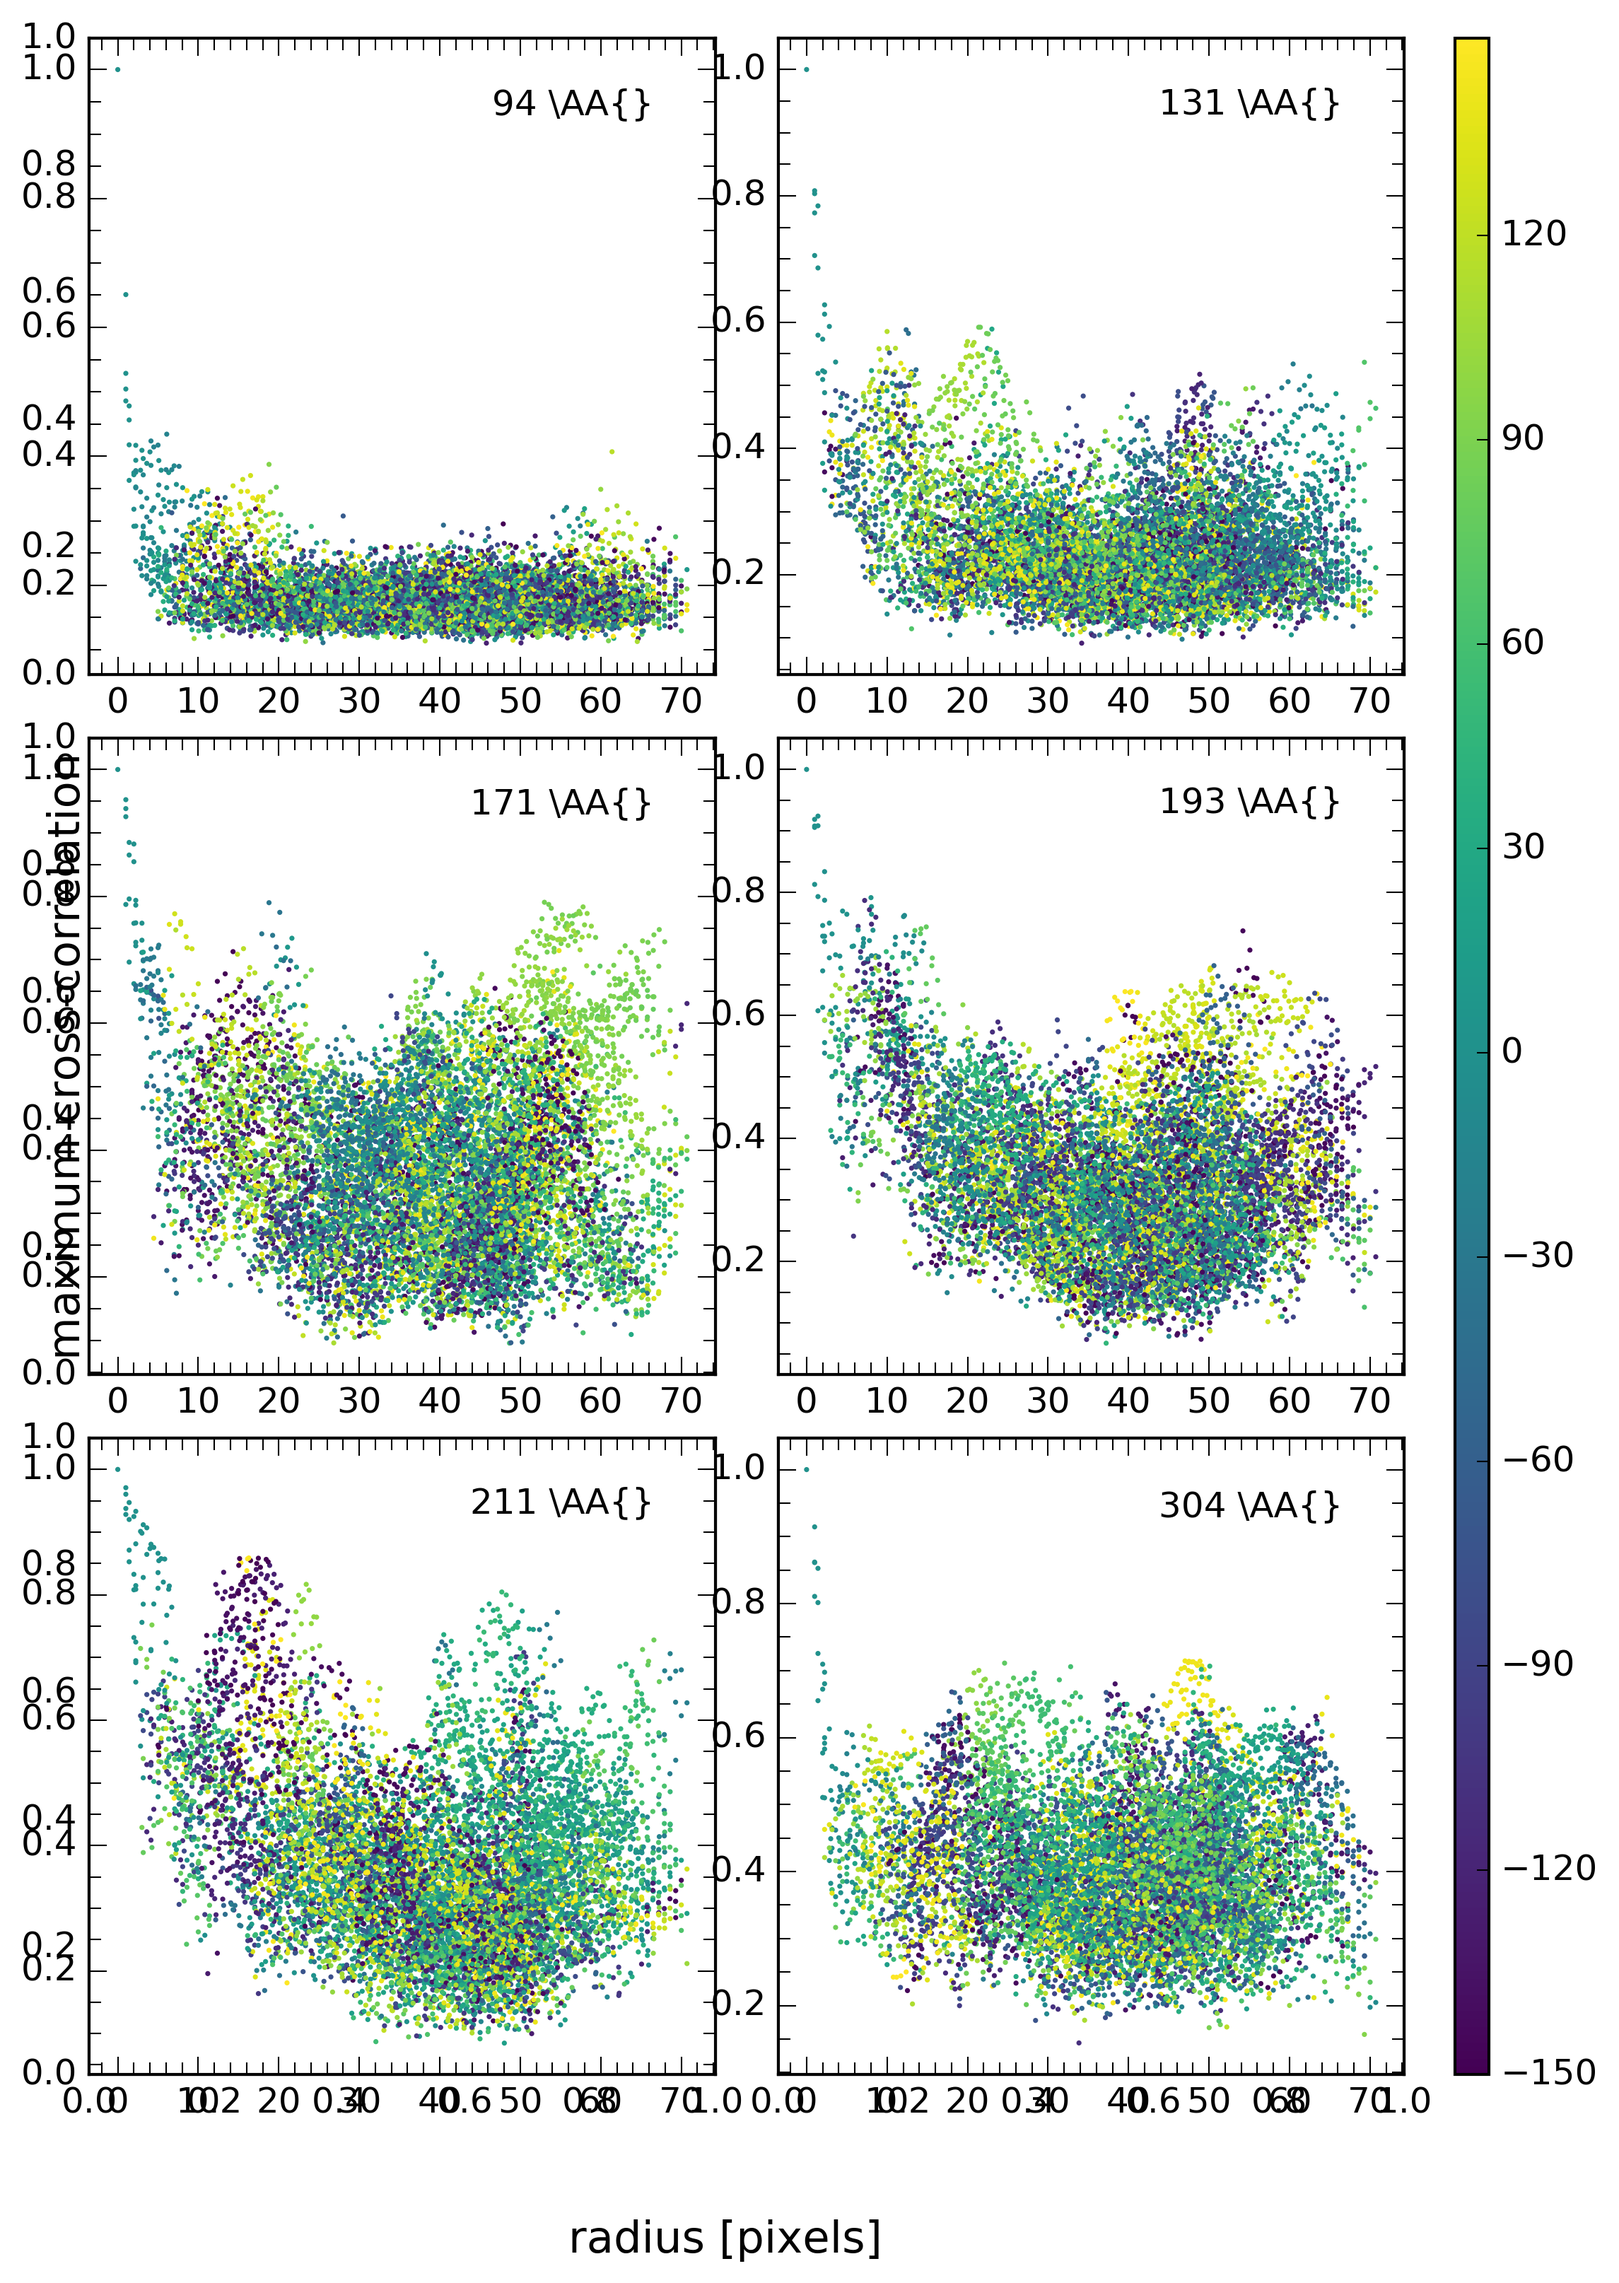
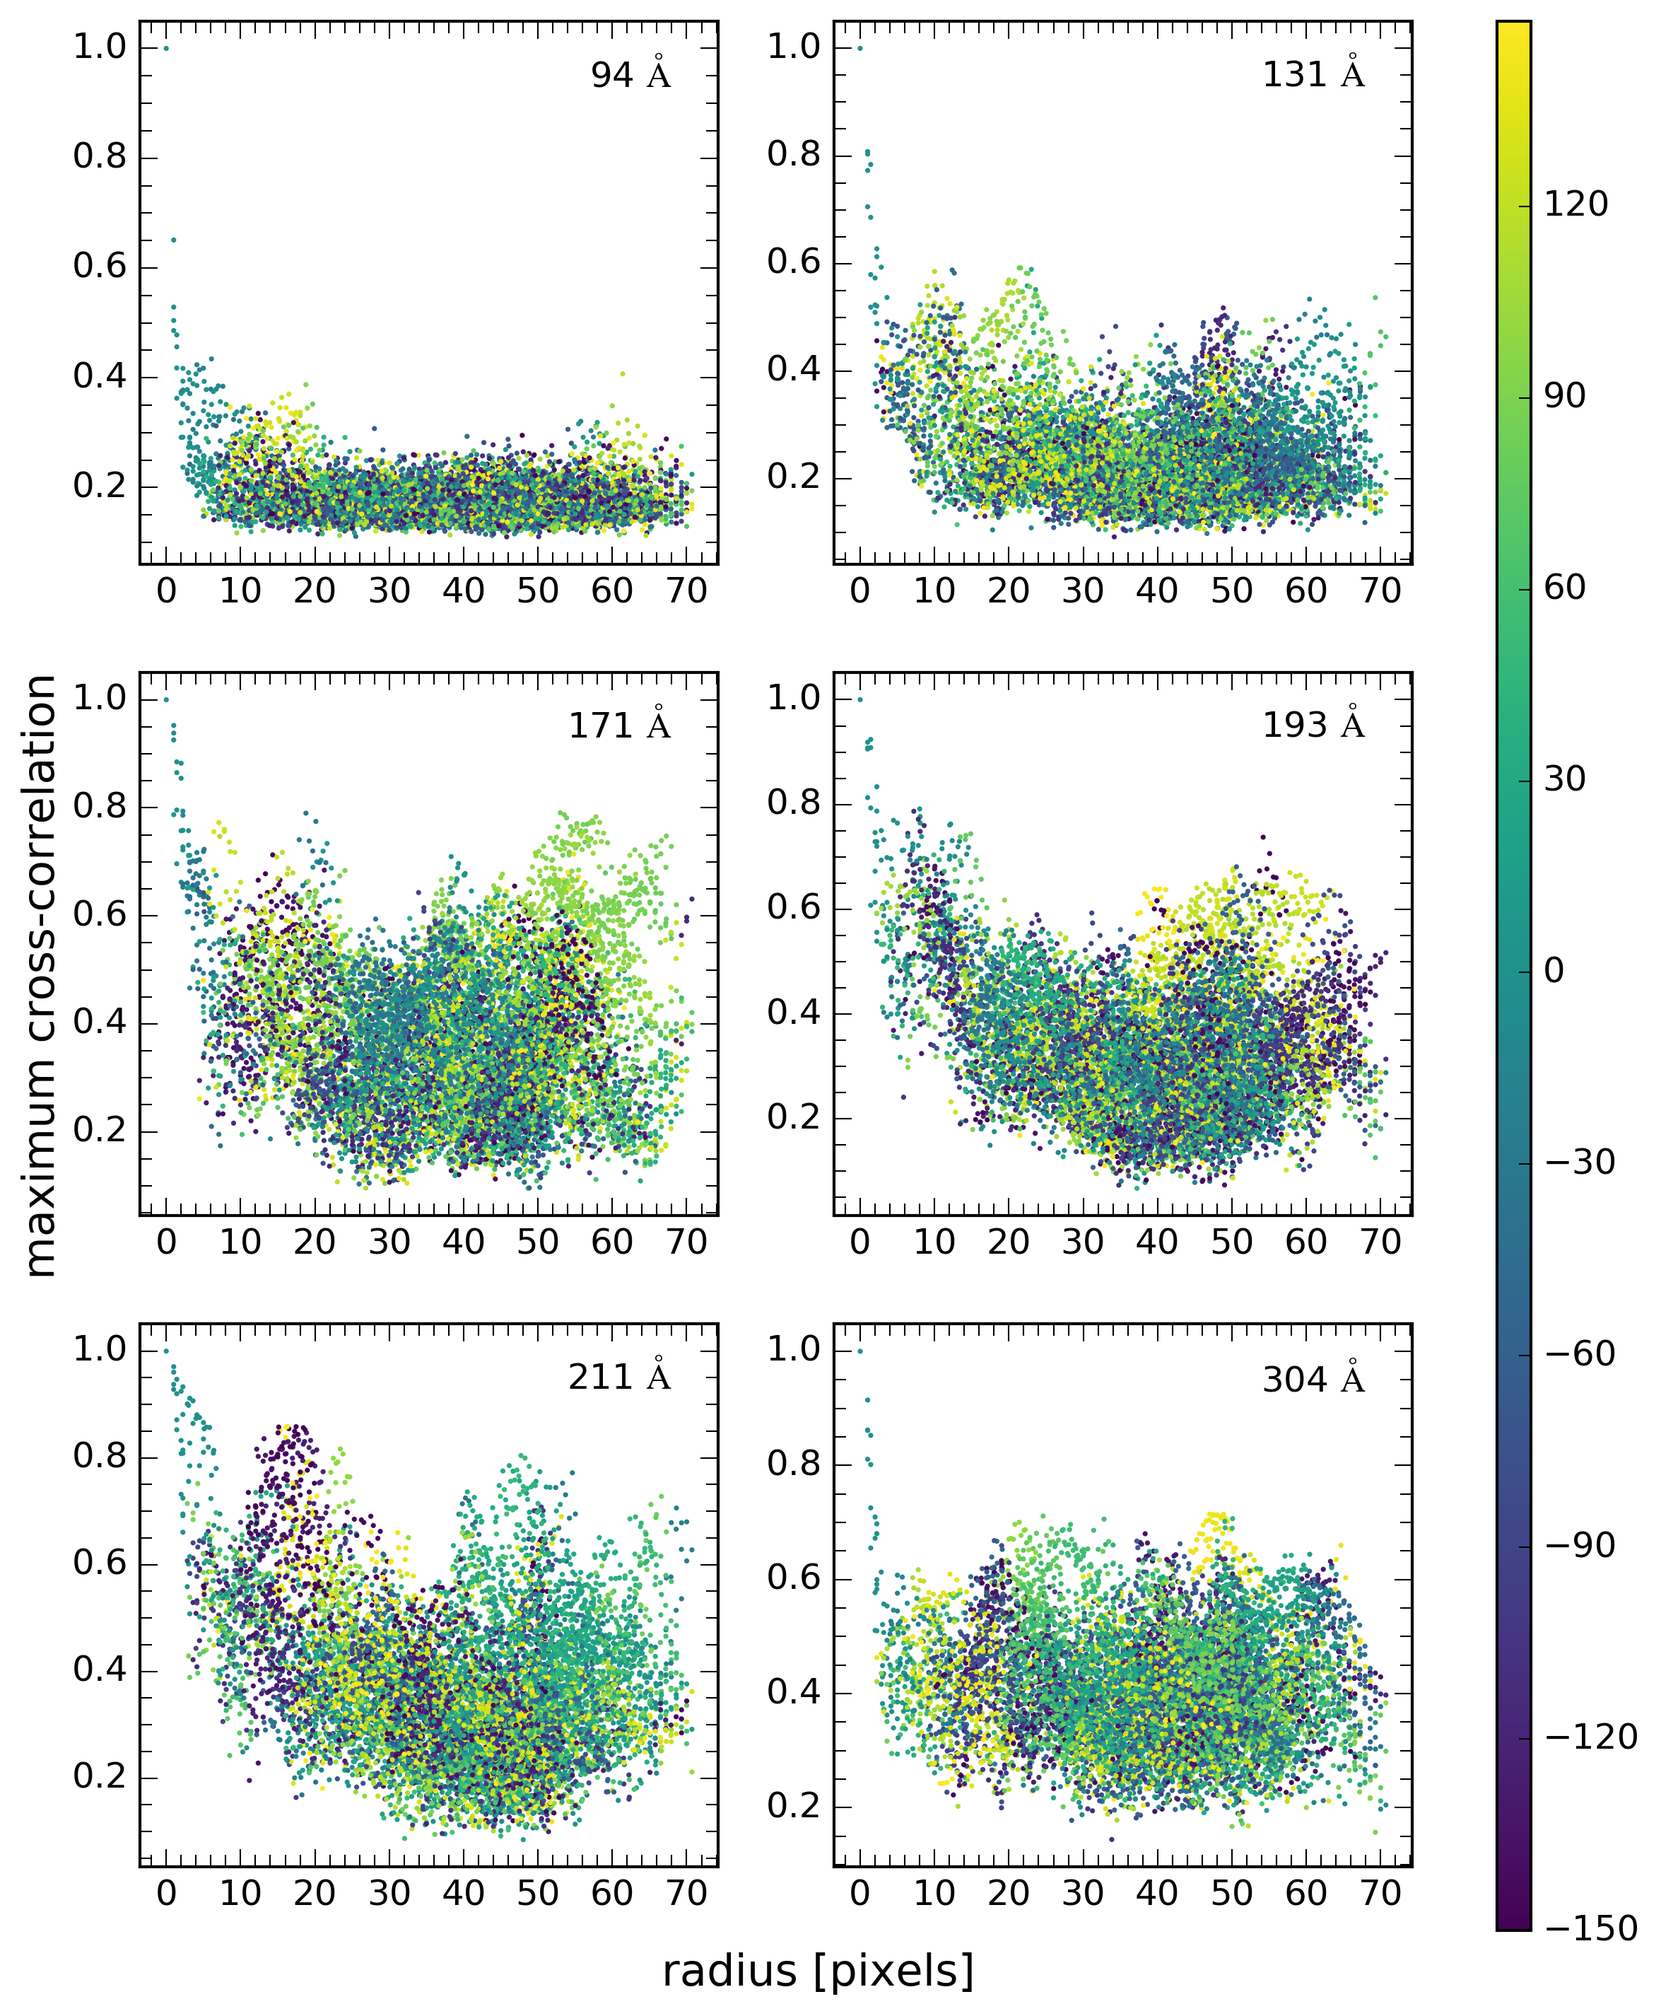
research plots

diff --git a/new_codes/bp_size/plots.py b/new_codes/bp_size/plots.py
@@ -4,51 +4,53 @@ import numpy as np
 import math
 import pdb
 import matplotlib.ticker as mtick
+from matplotlib.ticker import FormatStrFormatter
 
 #import matplotlib
 #matplotlib.rc('font',**{'family':'serif','serif':['Times']})
 #matplotlib.rc('text', usetex=True)
-
 #fig, ax = plt.subplots(figsize=(8,12), nrows=3, ncols=2, sharex=True, sharey=True)
-fig = plt.figure(figsize=(8,10))
-waves = ['94', '131', '171', '193', '211', '304'] #, '335']
-#axes = [ax[0][0], ax[0][1], ax[0][2], ax[1][0], ax[1][1], ax[1][2]]
 
-fontsize=15
-tfont=12
+fig = plt.figure(figsize=(8,10))
+fontsize=14
+waves = ['94', '131', '171', '193', '211', '304'] #, '335']
 for i in range(0, len(waves)):
     f = open(waves[i] + '_bp_sizes.dat')
     x, y, r, cor, t = np.loadtxt(f, unpack=True)
     ax = fig.add_subplot(3,2,i+1)
     m = ax.scatter(r, cor, c=t, vmin=min(t), vmax=max(t),
-                    cmap='viridis', s=3, lw=0)
-    '''
-    majorLocator = mtick.LinearLocator(numticks=10)
-    axes[i].xaxis.set_major_locator(majorLocator)
-    axes[i].xaxis.set_minor_locator(minorLocator)
-    axes[i].yaxis.set_major_locator(majorLocator)
-    axes[i].yaxis.set_minor_locator(minorLocator)
-    '''
+                    cmap='viridis', s=5, lw=0)
+    #ax.axis('tight')
+    ax.set_xlim(left=-5, right=max(r))
+    ax.set_ylim(bottom=0.6, top=1)
+    ax.text(68, 0.93, waves[i] + ' $\mathrm{\AA{}}$', ha='right')
     ax.minorticks_on()
     ax.tick_params(axis='both', which='minor', direction='in', length=4)
     ax.tick_params(axis='both', which='major', direction='in', length=6)
-    #ax.set_xticks(np.arange(0,80,10), minor=True)
-    #ax.set_xticklabels(fontsize=tfont)
-    #ax.set_yticklabels(np.arange(0,1,0.1),fontsize=tfont)
-    ax.axis('tight')  # no extra space between data points and axes
-    ax.text(68, 0.93, waves[i] + ' $\mathrm{\AA{}}$', ha='right')
+    #ax.xaxis.set_major_formatter(FormatStrFormatter('%.2f'))
+    #ax.yaxis.set_major_formatter(FormatStrFormatter('%.1f'))
+    #ax.set_yticklabels((np.arange(ax.get_ylim()[0], ax.get_ylim()[1]+0.1, 0.1)))
+    '''
+    majorLocator = mtick.LinearLocator(numticks=10)
+    ax.xaxis.set_major_locator(majorLocator)
+    ax.xaxis.set_minor_locator(minorLocator)
+    ax.yaxis.set_major_locator(majorLocator)
+    ax.yaxis.set_minor_locator(minorLocator)
+    ax.set_xticks(np.arange(0,80,10), minor=True)
+    ax.set_xticklabels(fontsize=12)
+    ax.set_yticklabels(np.arange(0,1,0.1),fontsize=12)
+    '''
 
-#fig.text(0.5, 0.03, 'radius [pixels]', ha='center', fontsize=fontsize)
-#fig.text(0.1, 0.5, 'maximum cross-correlation', va='center', rotation='vertical', fontsize=fontsize)
-
-cax = fig.add_axes([0.93, 0.10, 0.02, 0.80])
+fig.text(0.5, 0.024, 'radius [pixels]', ha='center', fontsize=fontsize)
+fig.text(0.03, 0.5, 'maximum cross-correlation', va='center', rotation='vertical', fontsize=fontsize)
+fig.subplots_adjust(left=0.1, right=0.85, bottom=0.08, top=0.95, wspace=0.2, hspace=0.2)
+cax = fig.add_axes([0.90, 0.05, 0.02, 0.90])
 #step=30
 cbar = fig.colorbar(m, cax=cax)
+cbar.set_label('timelag [cadence]', rotation=270)
 #cbar.set_ticks(np.arange(min(t),max(t)+step,step))
 #cbar.set_ticklabels(np.arange(min(t),max(t)+step,0.5*step))
 #cbar.ax.set_xticklabels(['Low', 'Medium', 'High'])  # horizontal colorbar
 
-
-plt.subplots_adjust(wspace=0.2, hspace=0.2)
-plt.show(block=False)
-#plt.savefig('bp_size.png', bbox_inches='tight', dpi=300)
+#plt.show(block=False)
+plt.savefig('bp_size2.png', bbox_inches='tight', dpi=300)
